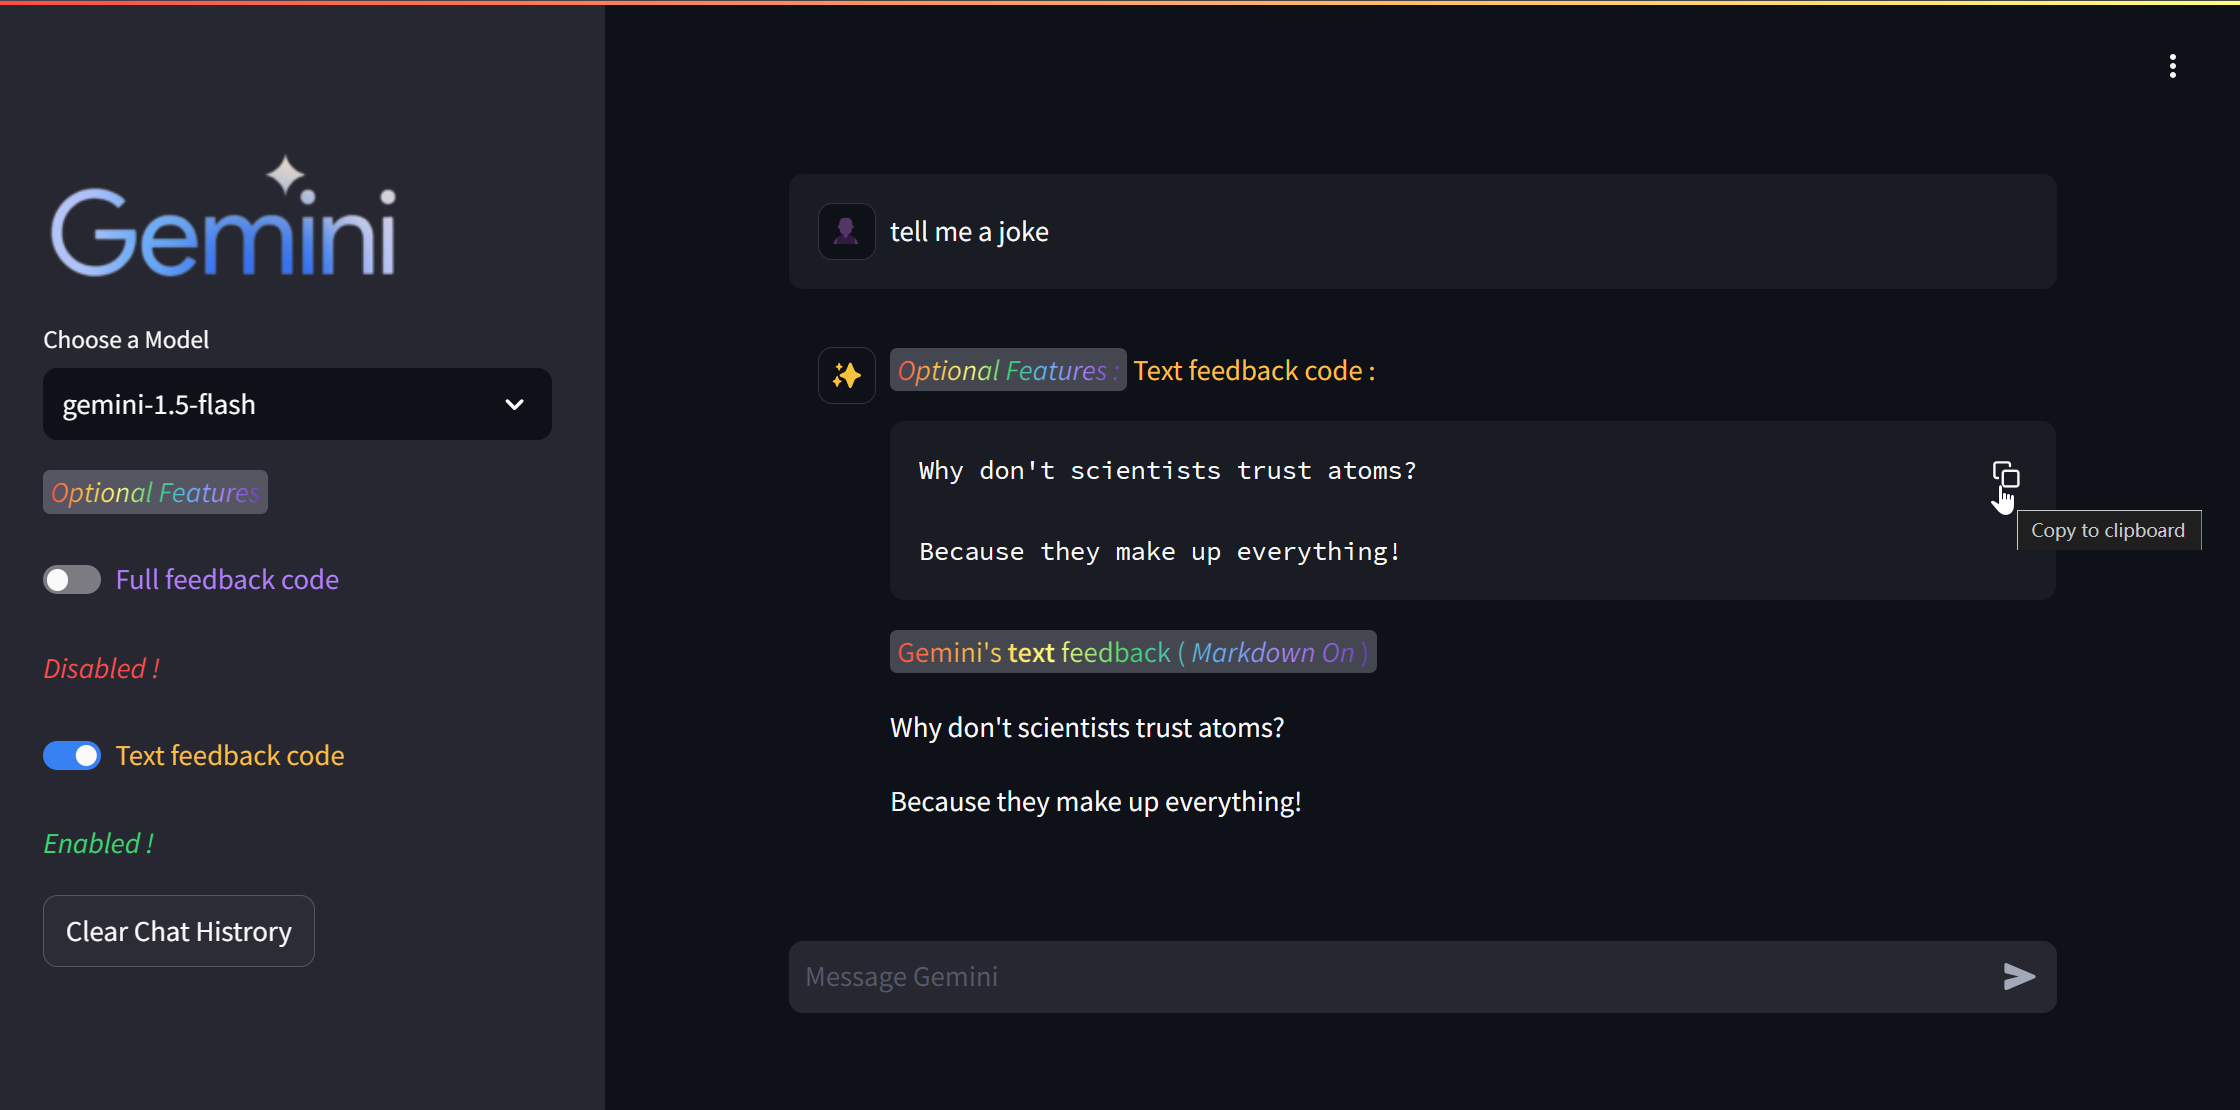
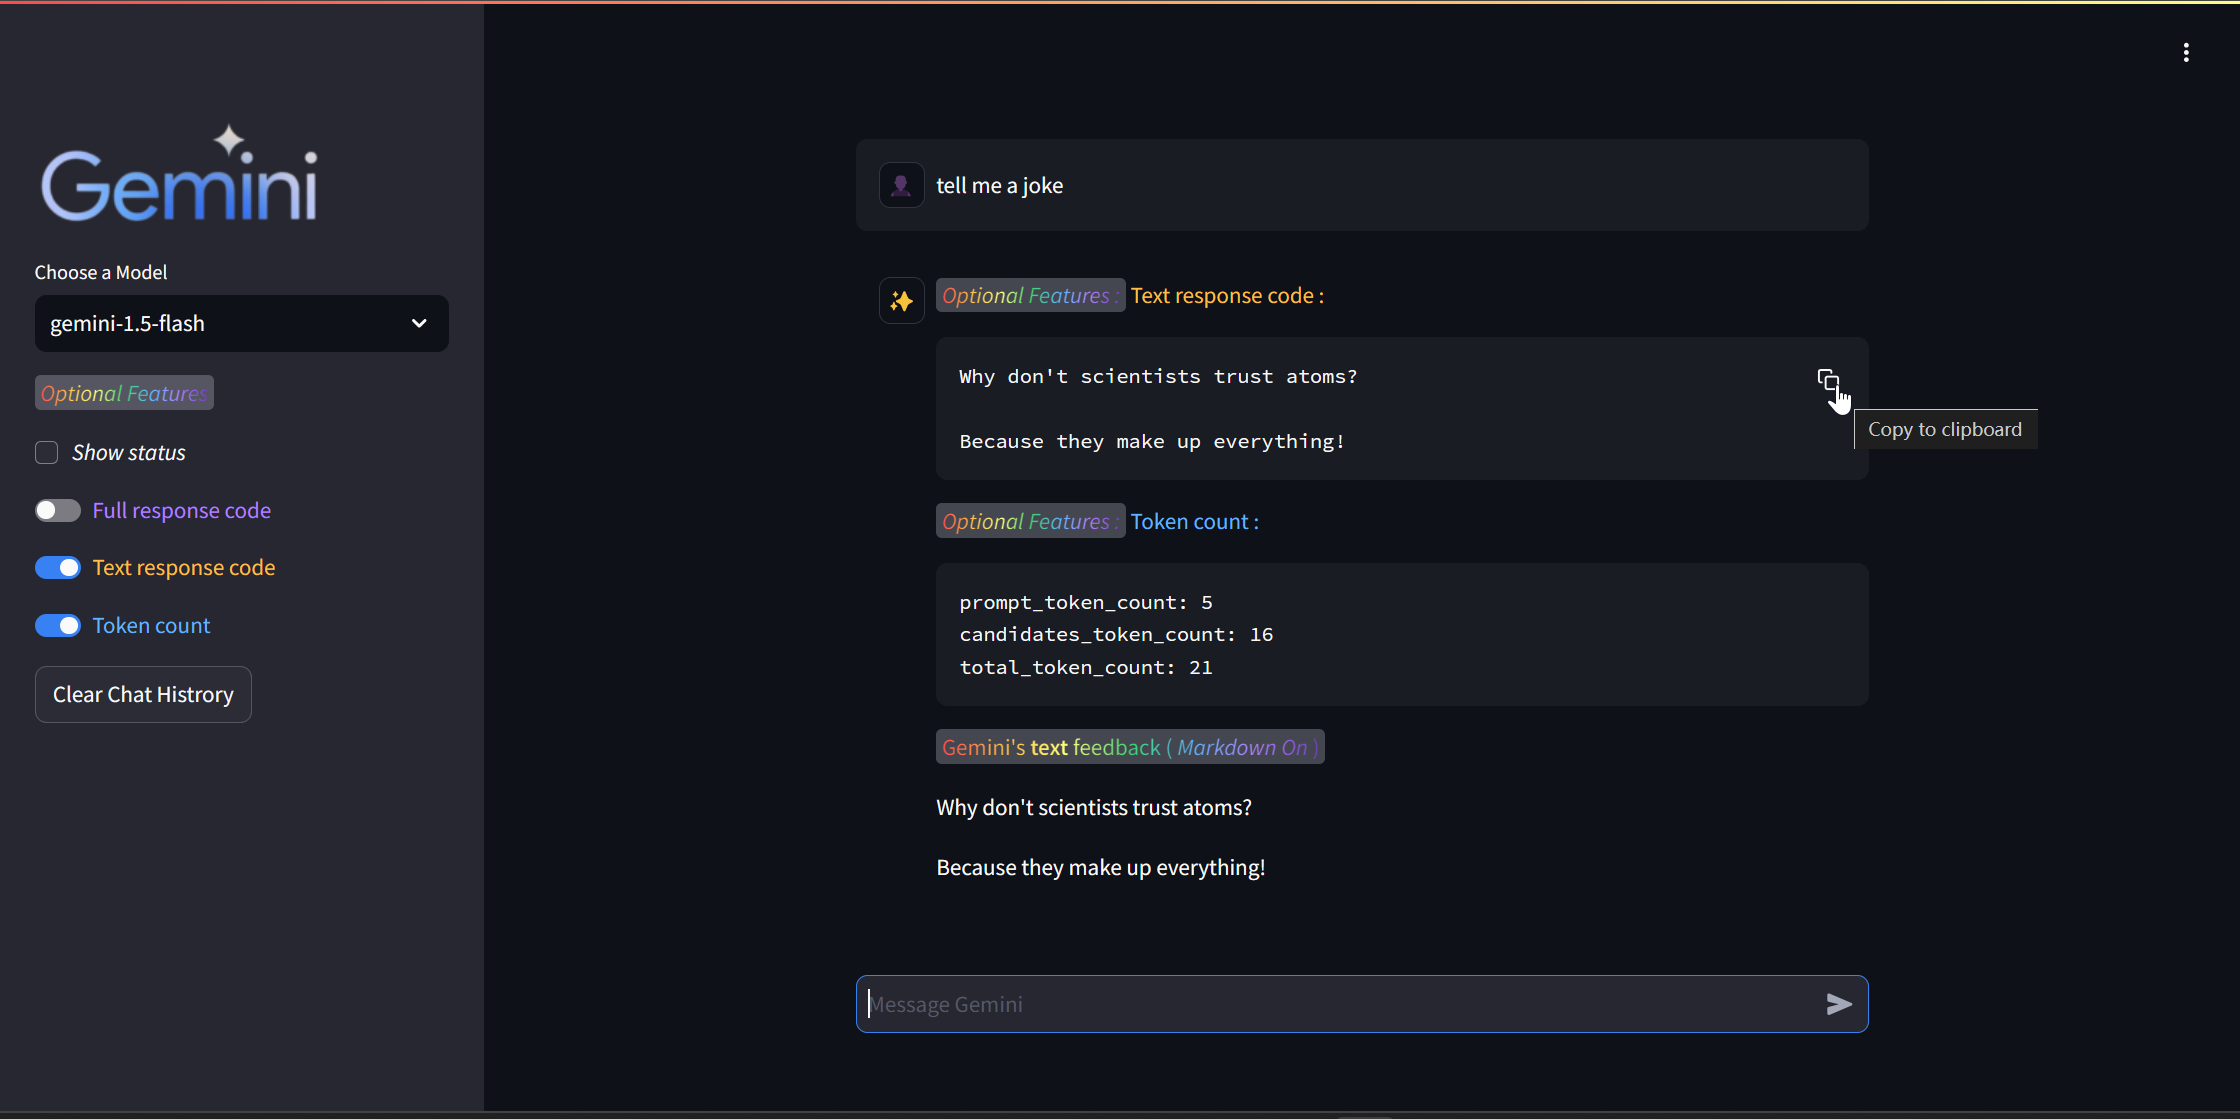
add token count
update : add token count

diff --git a/web_chat_ml.py b/web_chat_ml.py
@@ -17,8 +17,10 @@ mldefult_initial_prompt = ''' :blue-background[ **Note that** ] :grey-background
     
     # :rainbow[ How can I help you today ? ]   '''
 
+mldefult_feedback_status = False
 mldefult_full_opt_status = False
 mldefult_text_opt_status = True
+mldefult_token_count_status = True
 
 #sets the avatar for user as well as the bot
 USER_AVATAR = "👤"
@@ -41,30 +43,35 @@ st.set_page_config(
 #side bar components
 with st.sidebar:
     st.image(image_path , width = 200)
-    select_model = st.sidebar.selectbox('Choose a Model' , ['gemini-1.5-flash' , 'gemini-1.5-pro' , 'gemini-1.0-pro' , 'gemini-pro' , 'gemini-pro-vision'] , key='select_model')
+    select_model = st.sidebar.selectbox('Choose a Model' , ['gemini-1.5-flash' , 'gemini-1.5-pro' , 'gemini-1.0-pro'] , key='select_model')
     if select_model == 'gemini-1.5-flash':
         model = genai.GenerativeModel('gemini-1.5-flash')
     if select_model == 'gemini-1.5-pro':
         model = genai.GenerativeModel('gemini-1.5-pro')
     if select_model == 'gemini-1.0-pro':
         model = genai.GenerativeModel('gemini-1.0-pro')
-    if select_model == 'gemini-pro':
-        model = genai.GenerativeModel('gemini-pro')
-    if select_model == 'gemini-pro-vision':
-        model_vision = genai.GenerativeModel('gemini-pro-vision')
 
 with st.sidebar:
     st.markdown(" :grey-background[ :rainbow[ *Optional Features* ] ] ")
-    full_opt = st.toggle(":violet[ Full feedback code ]",value = mldefult_full_opt_status )
-    if ( full_opt ):
-        st.markdown(" :green[ *Enabled !* ] ")
-    else :
-        st.markdown(" :red[ *Disabled !* ] ")
-    text_opt = st.toggle(":orange[ Text feedback code ]",value = mldefult_text_opt_status )
-    if ( text_opt ):
-        st.markdown(" :green[ *Enabled !* ] ")
-    else :
-        st.markdown(" :red[ *Disabled !* ] ")
+    feedback_status = st.checkbox(" *Show status* ",value= mldefult_feedback_status )
+    full_opt = st.toggle(":violet[ Full response code ]",value = mldefult_full_opt_status )
+    if ( feedback_status ):
+        if ( full_opt ):
+            st.markdown(" :green[ *Enabled !* ] ")
+        else :
+            st.markdown(" :red[ *Disabled !* ] ")
+    text_opt = st.toggle(":orange[ Text response code ]",value = mldefult_text_opt_status )
+    if ( feedback_status ):
+        if ( text_opt ):
+            st.markdown(" :green[ *Enabled !* ] ")
+        else :
+            st.markdown(" :red[ *Disabled !* ] ")
+    token_count = st.toggle(":blue[ Token count ]",value = mldefult_token_count_status )
+    if ( feedback_status ):
+        if ( token_count ):
+            st.markdown(" :green[ *Enabled !* ] ")
+        else :
+            st.markdown(" :red[ *Disabled !* ] ")
 
 #role swap after every prompt
 def role_swap(user_role):
@@ -98,10 +105,13 @@ if user_prompt:
     gemini_response = st.session_state.chat_session.send_message(user_prompt)
     with st.chat_message("assistant",avatar=BOT_AVATAR):
         if ( full_opt ):  
-            st.markdown(" :grey-background[ :rainbow[ *Optional Features :* ] ] :violet[ Full feedback code : ] ")
+            st.markdown(" :grey-background[ :rainbow[ *Optional Features :* ] ] :violet[ Full response code : ] ")
             st.code(gemini_response , language='markdown')
         if ( text_opt ):
-            st.markdown(" :grey-background[ :rainbow[ *Optional Features :* ] ] :orange[ Text feedback code : ] ")
+            st.markdown(" :grey-background[ :rainbow[ *Optional Features :* ] ] :orange[ Text response code : ] ")
             st.code(gemini_response.text , language='markdown')
+        if ( token_count ):
+            st.markdown(" :grey-background[ :rainbow[ *Optional Features :* ] ] :blue[ Token count : ] ")
+            st.code(gemini_response.usage_metadata , language='markdown')
         st.markdown(" :grey-background[ :rainbow[ Gemini's **text** feedback ( *Markdown On* ) ] ] ")
         st.markdown(gemini_response.text)

diff --git a/README.md b/README.md
@@ -11,6 +11,12 @@ This captivating Streamlit application harnesses the power of Gemini's API key t
 
 Through the seamless integration of Gemini's API key, the chatbot boasts an unparalleled knowledge base and the remarkable ability to engage in meaningful conversations. It effortlessly answers user queries, provides factual information, offers assistance, or simply engages in casual banter, mimicking human-like interactions.
 
+## Screenshots
+
+![Screenshot](https://raw.githubusercontent.com/midairlogn/Gemini_WebUI_ML/main/screenshots/screenshot1.png)
+
+![Screenshot](https://raw.githubusercontent.com/midairlogn/Gemini_WebUI_ML/main/screenshots/screenshot2.png)
+
 ## Preparation : Gemini's API key
 
 To replicate the project in local host you must obtain a gemini api key from the follwing website [here](https://ai.google.dev/) and include them in the `.env` as shown in the `.env-example` .    
@@ -38,14 +44,22 @@ streamlit run web_chat_ml.py
 ```
 #### On Windows , you can also 
 * run `launch.bat`
+### Customize your port    
+The default port is `8501` . However , you can customize your port by using the following command to launch :   
+```
+streamlit run web_chat_ml.py --server.port [INTEGER]
+```
+Replace `[INTEGER]` with the port you want this programme to run on .    
+> *Note that:* Don't use port 3000 which is reserved for internal development.    
 
 
 ## Supported gemini models
 - [x] gemini-1.5-flash ( *recommended* )
 - [x] gemini-1.5-pro ( *recommended* )
 - [x] gemini-1.0-pro
-- [x] gemini-pro
-- [x] gemini-pro-vision
+- [ ] gemini-pro
+- [ ] gemini-pro-vision
+> *Note that:*  As `gemini-pro` and `gemini-pro-vision` are not stable and can easily give the user an error message , they are removed from the model list .  
 
 ## Supported input
 - [x] text
@@ -61,11 +75,5 @@ streamlit run web_chat_ml.py
 - [ ] pdf 
 - [ ] others
 - [x] ( If you enable *Optional Features* ) Gemini's feedback code
-
-
-## Screenshots
-
-![Screenshot](https://raw.githubusercontent.com/midairlogn/Gemini_WebUI_ML/main/screenshots/screenshot1.png)
-
-![Screenshot](https://raw.githubusercontent.com/midairlogn/Gemini_WebUI_ML/main/screenshots/screenshot2.png)
+- [x] ( If you enable *Optional Features* ) usage metadata ( which includes `prompt_token_count` , `candidates_token_count` and `total_token_count`)
 
